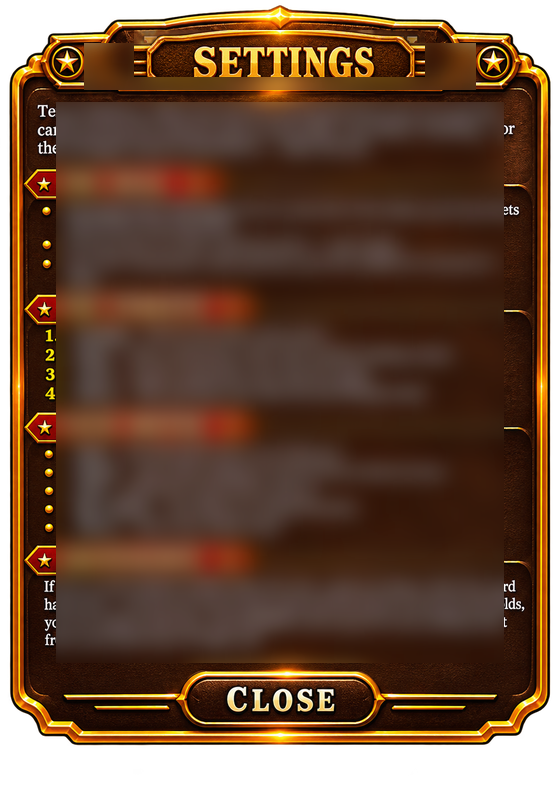
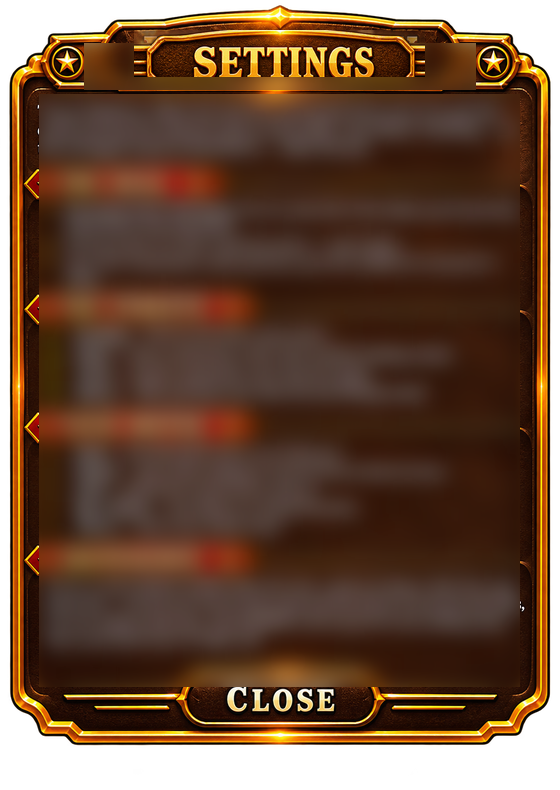
Fix mobile settings overlay layout and panel shell
Wipe leftover rules copy from the settings frame art, clip controls
inside the panel, stack labels above dropdown pills, and tighten name
and footer actions for phone landscape.

diff --git a/Web/CinematicPoker.Web/wwwroot/css/app.css b/Web/CinematicPoker.Web/wwwroot/css/app.css
@@ -2926,10 +2926,13 @@ html.scene-street.resume-play .boot-screen {
 
 .settings-art-panel {
     width: min(560px, calc(100vw - 24px));
+    overflow: hidden;
+    max-height: calc(100dvh - 12px);
 }
 
 .settings-art-panel.overlay-art-panel--portrait {
     max-width: min(92vw, 560px);
+    max-height: min(calc(100dvh - 12px), calc((100vw - 24px) * 790 / 560));
 }
 
 .settings-art-frame {
@@ -2939,12 +2942,13 @@ html.scene-street.resume-play .boot-screen {
 
 .settings-art-sheet {
     position: absolute;
-    left: 12%;
-    right: 12%;
-    top: 14.5%;
-    bottom: 16%;
+    left: 13%;
+    right: 13%;
+    top: 15%;
+    bottom: 17%;
     overflow-x: hidden;
     overflow-y: auto;
+    overscroll-behavior: contain;
     display: flex;
     flex-direction: column;
     gap: 0;
@@ -3001,35 +3005,49 @@ html.scene-street.resume-play .boot-screen {
     min-height: 44px;
 }
 
+.settings-art-portrait .settings-rows {
+    display: flex;
+    flex-direction: column;
+    gap: 8px;
+}
+
 .settings-art-portrait .settings-label {
-    flex: 0 0 42%;
-    font-size: 11px;
+    flex: 0 0 auto;
+    font-size: 10px;
     font-weight: 700;
-    letter-spacing: 0.14em;
+    letter-spacing: 0.12em;
     color: #e8d4a8;
     text-shadow: 0 1px 2px rgba(0, 0, 0, 0.85);
+    line-height: 1.2;
 }
 
 .settings-art-portrait .settings-row {
-    justify-content: space-between;
-    gap: 10px;
+    justify-content: stretch;
+    gap: 6px;
 }
 
 .settings-art-portrait .settings-row-pill {
-    justify-content: space-between;
-    align-items: center;
-    min-height: 48px;
+    flex-direction: column;
+    align-items: stretch;
+    min-height: 0;
+    gap: 5px;
 }
 
 .settings-art-portrait .settings-pill-wrap {
     position: relative;
     display: flex;
     flex-direction: column;
-    align-items: flex-end;
-    flex: 1 1 54%;
-    width: auto;
-    max-width: 54%;
+    align-items: stretch;
+    flex: 1 1 auto;
+    width: 100%;
+    max-width: 100%;
     min-width: 0;
+}
+
+.settings-art-portrait .settings-row-pill > .settings-pill {
+    width: 100%;
+    max-width: 100%;
+    justify-content: center;
 }
 
 .settings-pill {
@@ -3055,9 +3073,10 @@ html.scene-street.resume-play .boot-screen {
 
 .settings-pill-img {
     display: block;
-    height: 44px;
+    height: 40px;
     width: auto;
-    max-width: 100%;
+    max-width: min(222px, 100%);
+    margin: 0 auto;
     object-fit: contain;
     pointer-events: none;
     user-select: none;
@@ -3176,14 +3195,28 @@ html.scene-street.resume-play .boot-screen {
     border: 0;
 }
 
+.settings-art-portrait .settings-name-art {
+    margin-bottom: 10px;
+}
+
 .settings-art-portrait .settings-name-art .settings-name-controls {
-    flex-wrap: wrap;
+    flex-direction: column;
+    align-items: stretch;
+    gap: 8px;
 }
 
 .settings-art-portrait .settings-name-art .settings-name-input {
-    flex: 1 1 100%;
+    flex: 1 1 auto;
     max-width: 100%;
     margin-right: 0;
+    width: 100%;
+    text-align: left;
+    font-size: 13px;
+}
+
+.settings-art-portrait .settings-name-art .settings-save {
+    width: 100%;
+    min-height: 42px;
 }
 
 .settings-art-sheet .settings-name-controls .name-input {
@@ -3208,20 +3241,28 @@ html.scene-street.resume-play .boot-screen {
 }
 
 .settings-extra-actions {
-    display: flex;
-    flex-wrap: wrap;
-    justify-content: center;
-    gap: 8px;
-    margin-top: 14px;
+    display: grid;
+    grid-template-columns: 1fr 1fr;
+    gap: 6px;
+    margin-top: 12px;
     padding-top: 10px;
     border-top: 1px solid rgba(216, 178, 92, 0.25);
 }
 
 .settings-extra-actions .settings-action {
-    min-height: 40px;
-    padding: 8px 12px;
+    min-height: 38px;
+    padding: 6px 8px;
+    font-size: 10px;
+    letter-spacing: 0.08em;
+    width: 100%;
+}
+
+.settings-art-portrait .settings-note {
     font-size: 11px;
-    letter-spacing: 0.12em;
+    line-height: 1.35;
+    word-break: break-word;
+    max-height: 4.5em;
+    overflow-y: auto;
 }
 
 .overlay-art-panel--landscape .overlay-art-hitclose {

diff --git a/Web/CinematicPoker.Web/wwwroot/index.html b/Web/CinematicPoker.Web/wwwroot/index.html
@@ -25,7 +25,7 @@
          vendored in fonts/ so the game needs no network at all — the
          @font-face declarations live at the top of css/app.css. -->
     <link rel="preload" href="fonts/rye-latin.woff2" as="font" type="font/woff2" crossorigin />
-    <link rel="stylesheet" href="css/app.css?v=89" />
+    <link rel="stylesheet" href="css/app.css?v=90" />
     <script>
         // iOS reports the landscape notch inset on both sides. The housing
         // is only on one edge: window.orientation 90 puts it on the left,

diff --git a/tools/build_settings_panel_shell.py b/tools/build_settings_panel_shell.py
@@ -16,8 +16,8 @@ IMG = ROOT / "Web/CinematicPoker.Web/wwwroot/img"
 FRAME = IMG / "settings-portrait-frame.png"
 TITLE_SRC = IMG / "settings-panel-full.png"
 
-# Interior leather band (exclude ornate header + footer close pill).
-BODY = (0.10, 0.13, 0.90, 0.84)
+# Wipe rules copy/red banners; keep header chrome + footer CLOSE art.
+BODY = (0.07, 0.12, 0.93, 0.87)
 TITLE_BAND = (0.15, 0.055, 0.85, 0.115)
 
 
